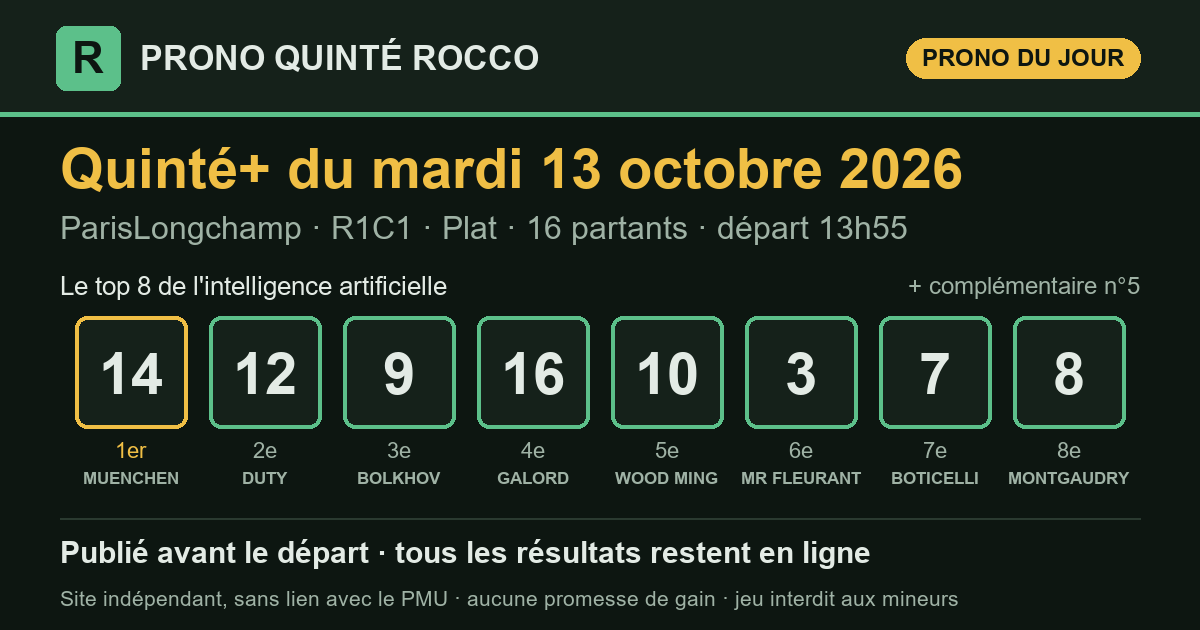
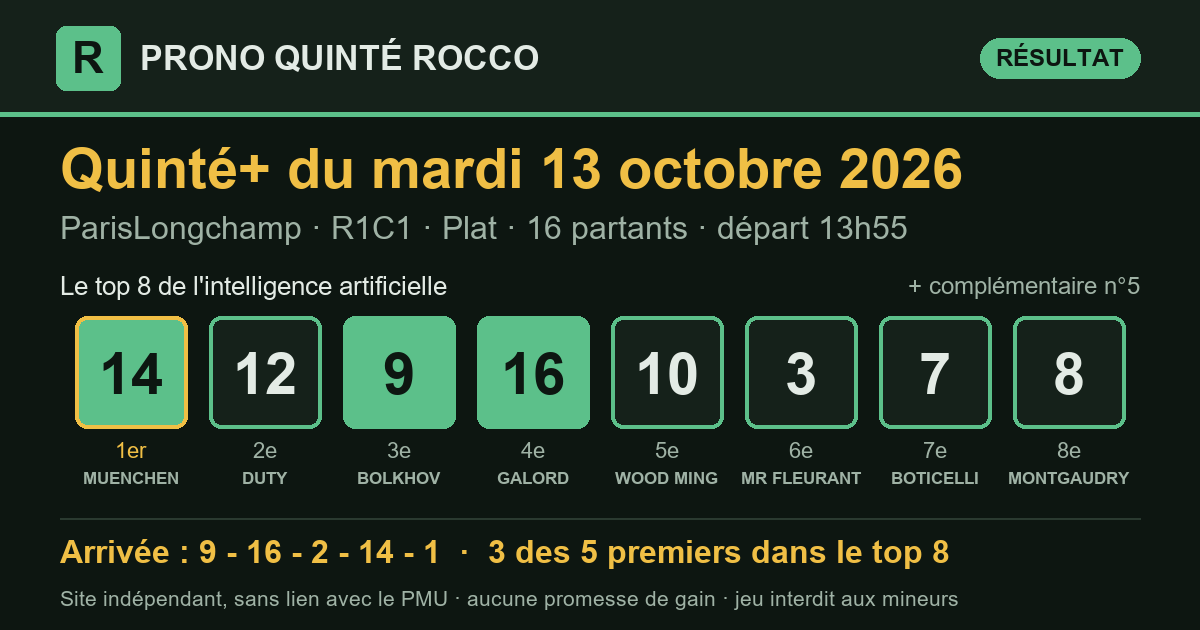
Prono Quinté+ 2026-10-13 ParisLongchamp R1C1 — publié le 13/10/2026 14:06 (heure de Paris)

diff --git a/partants.html b/partants.html
@@ -3,14 +3,14 @@
 <head>
 <meta charset="utf-8">
 <meta name="viewport" content="width=device-width, initial-scale=1, viewport-fit=cover">
-<title>Partants du Quinté+ du mardi 13 octobre 2026 — Prono Quinté Rocco</title>
+<title>Partants du Quinté+ du mercredi 14 octobre 2026 — Prono Quinté Rocco</title>
 <meta name="description" content="Les partants du prochain Quinté+ (programme officiel du PMU), avec le rang du prono IA et les liens vers les pronostics de la presse.">
 <link rel="canonical" href="https://prono-quinte-rocco.fr/partants.html">
 <link rel="stylesheet" href="style.css?v=9ac79f81">
 <meta property="og:site_name" content="Prono Quinté Rocco">
 <meta property="og:locale" content="fr_FR">
 <meta property="og:type" content="website">
-<meta property="og:title" content="Partants du Quinté+ du mardi 13 octobre 2026 — Prono Quinté Rocco">
+<meta property="og:title" content="Partants du Quinté+ du mercredi 14 octobre 2026 — Prono Quinté Rocco">
 <meta property="og:description" content="Les partants du prochain Quinté+ (programme officiel du PMU), avec le rang du prono IA et les liens vers les pronostics de la presse.">
 <meta property="og:url" content="https://prono-quinte-rocco.fr/partants.html">
 <meta name="twitter:card" content="summary">
@@ -26,100 +26,100 @@
   <p class="surtitre">Programme officiel du PMU</p>
   <h1>Les partants du prochain Quinté+</h1>
   <div class="fiche-course">
-    <p class="fiche-date">Mardi 13 octobre 2026</p>
-    <div class="fiche-rc"><span class="pastille" title="Réunion 1">R1</span><span class="pastille" title="Course 1">C1</span><span class="fiche-nom">Prix de la Galerie des Varietes</span></div>
-    <p class="meta">ParisLongchamp · Plat · 1 600 m · 16 partants</p>
+    <p class="fiche-date">Mercredi 14 octobre 2026</p>
+    <div class="fiche-rc"><span class="pastille" title="Réunion 1">R1</span><span class="pastille" title="Course 1">C1</span><span class="fiche-nom">Grand National du Trot</span></div>
+    <p class="meta">Reims · Trot_attele · 2 550 m · 16 partants</p>
     <p class="fiche-depart">Départ <b>13:55</b> <span>heure de Paris</span></p>
   </div>
   <p class="surtitre">Les pronostics ailleurs sur le web</p>
-  <div class="liens"><a class="lien-ext" href="https://www.turfoo.fr/programmes-courses/261013/reunion1-longchamp/course1-prix-de-la-galerie-des-varietes/pronostics-presse/" rel="noopener" target="_blank"><b>Les pronostics de la presse →</b><span>sur Turfoo (site extérieur)</span></a><a class="lien-ext" href="https://www.geny.com/programme/2026-10-13" rel="noopener" target="_blank"><b>Partants et pronostics →</b><span>programme du jour sur Geny (site extérieur)</span></a></div>
+  <div class="liens"><a class="lien-ext" href="https://www.turfoo.fr/programmes-courses/261014/reunion1-reims/course1-grand-national-du-trot/pronostics-presse/" rel="noopener" target="_blank"><b>Les pronostics de la presse →</b><span>sur Turfoo (site extérieur)</span></a><a class="lien-ext" href="https://www.geny.com/programme/2026-10-14" rel="noopener" target="_blank"><b>Partants et pronostics →</b><span>programme du jour sur Geny (site extérieur)</span></a></div>
   <div class="liste-boite"><table class="liste-partants">
     <thead><tr><th>N°</th><th>Cheval</th><th class="cote"><span class="long">Cote du matin</span><span class="court">Cote</span></th>
     <th class="ia"><span class="long">Prono IA</span><span class="court">IA</span></th></tr></thead>
     <tbody><tr>
   <td><span class="tapis petit">1</span></td>
-  <td><span class="cheval">FELIX AUX ORMES</span><span class="sous">H.JOURNIAC · Y.BARBEROT (S)</span></td>
-  <td class="cote num">27,0</td>
+  <td><span class="cheval">KOTKIE</span><span class="sous">P.PH. PLOQUIN · J.R. DELLIAUX</span></td>
+  <td class="cote num">—</td>
   <td class="ia">—</td>
 </tr><tr>
   <td><span class="tapis petit">2</span></td>
-  <td><span class="cheval">JUSEARTH FAL</span><span class="sous">C.LECOEUVRE · M.PITART</span></td>
-  <td class="cote num">46,0</td>
+  <td><span class="cheval">KOUREAS D&#x27;ELA</span><span class="sous">B. ROCHARD · M. SASSIER</span></td>
+  <td class="cote num">—</td>
   <td class="ia">—</td>
 </tr><tr>
   <td><span class="tapis petit">3</span></td>
-  <td><span class="cheval">MR FLEURANT</span><span class="sous">M.BARZALONA · A.WATRIGANT (S)</span></td>
-  <td class="cote num">13,0</td>
-  <td class="ia"><span class="etat place">6<sup>e</sup></span></td>
+  <td><span class="cheval">IF I TELL YOU</span><span class="sous">F. OUVRIE · CH. MIRANDEL</span></td>
+  <td class="cote num">—</td>
+  <td class="ia">—</td>
 </tr><tr>
   <td><span class="tapis petit">4</span></td>
-  <td><span class="cheval">AQUITAIN</span><span class="sous">T.BLANCHOUIN · MME S.GAVILAN</span></td>
-  <td class="cote num">31,0</td>
+  <td><span class="cheval">LORD DELO</span><span class="sous">M. VERVA · N. BAZIRE</span></td>
+  <td class="cote num">—</td>
   <td class="ia">—</td>
 </tr><tr>
   <td><span class="tapis petit">5</span></td>
-  <td><span class="cheval">REVE DE VALLARSA</span><span class="sous">D.SANTIAGO · LD.RACCO</span></td>
-  <td class="cote num">22,0</td>
-  <td class="ia"><span class="etat place">compl.</span></td>
+  <td><span class="cheval">JENTIL DIESCHOOT</span><span class="sous">E. RAFFIN · K. LEBLANC</span></td>
+  <td class="cote num">—</td>
+  <td class="ia">—</td>
 </tr><tr>
   <td><span class="tapis petit">6</span></td>
-  <td><span class="cheval">REVERSO</span><span class="sous">A.LEMAITRE · MME I.JANACKOVA KOPLIKOVA</span></td>
-  <td class="cote num">24,0</td>
+  <td><span class="cheval">KELLE BEAUTE</span><span class="sous">A. ABRIVARD · L.CL. ABRIVARD</span></td>
+  <td class="cote num">—</td>
   <td class="ia">—</td>
 </tr><tr>
   <td><span class="tapis petit">7</span></td>
-  <td><span class="cheval">BOTICELLI</span><span class="sous">C.SOUMILLON · M.RULEC (S)</span></td>
-  <td class="cote num">14,0</td>
-  <td class="ia"><span class="etat place">7<sup>e</sup></span></td>
+  <td><span class="cheval">HECTOR DE BASSIERE</span><span class="sous">A. ANDRE · P.L. DESAUNETTE</span></td>
+  <td class="cote num">—</td>
+  <td class="ia">—</td>
 </tr><tr>
   <td><span class="tapis petit">8</span></td>
-  <td><span class="cheval">MONTGAUDRY</span><span class="sous">S.PASQUIER · D.SMAGA</span></td>
-  <td class="cote num">19,0</td>
-  <td class="ia"><span class="etat place">8<sup>e</sup></span></td>
+  <td><span class="cheval">HEUREUX DE FLEUR</span><span class="sous">Y. LEBOURGEOIS · Mme S. RAIMOND</span></td>
+  <td class="cote num">—</td>
+  <td class="ia">—</td>
 </tr><tr>
   <td><span class="tapis petit">9</span></td>
-  <td><span class="cheval">BOLKHOV</span><span class="sous">PC.BOUDOT · A.BOTTI (S)</span></td>
-  <td class="cote num">10,0</td>
-  <td class="ia"><span class="etat place">3<sup>e</sup></span></td>
+  <td><span class="cheval">JACOMO BELLO</span><span class="sous">R. LAMY · TH. LEVESQUE</span></td>
+  <td class="cote num">—</td>
+  <td class="ia">—</td>
 </tr><tr>
   <td><span class="tapis petit">10</span></td>
-  <td><span class="cheval">WOOD MING</span><span class="sous">F.VALLE SKAR · MME C.BARANDE BARBE</span></td>
-  <td class="cote num">14,0</td>
-  <td class="ia"><span class="etat place">5<sup>e</sup></span></td>
+  <td><span class="cheval">KATCHI QUICK</span><span class="sous">CL. DUVALDESTIN · TH. DUVALDESTIN</span></td>
+  <td class="cote num">—</td>
+  <td class="ia">—</td>
 </tr><tr>
   <td><span class="tapis petit">11</span></td>
-  <td><span class="cheval">PUMALIN PARK</span><span class="sous">A.POUCHIN · G.MOSSE (S)</span></td>
-  <td class="cote num">20,0</td>
+  <td><span class="cheval">JANGO VICI</span><span class="sous">F. GUERINEAU · A. RIPOLL RIGO</span></td>
+  <td class="cote num">—</td>
   <td class="ia">—</td>
 </tr><tr>
   <td><span class="tapis petit">12</span></td>
-  <td><span class="cheval">DUTY</span><span class="sous">I.MENDIZABAL · M.DELZANGLES</span></td>
-  <td class="cote num">7,5</td>
-  <td class="ia"><span class="etat place">2<sup>e</sup></span></td>
+  <td><span class="cheval">INDUS VAL</span><span class="sous">P.Y. VERVA · J.M. CHAINEUX</span></td>
+  <td class="cote num">—</td>
+  <td class="ia">—</td>
 </tr><tr>
   <td><span class="tapis petit">13</span></td>
-  <td><span class="cheval">LORD OF WAR</span><span class="sous">M.GUYON · N.PERRET (S)</span></td>
-  <td class="cote num">22,0</td>
+  <td><span class="cheval">IALTO D&#x27;HERTALS</span><span class="sous">F. NIVARD · TH. DUVALDESTIN</span></td>
+  <td class="cote num">—</td>
   <td class="ia">—</td>
 </tr><tr>
   <td><span class="tapis petit">14</span></td>
-  <td><span class="cheval">MUENCHEN</span><span class="sous">C.DEMURO · C.ESCUDER</span></td>
-  <td class="cote num">5,8</td>
-  <td class="ia"><span class="etat place">1<sup>er</sup></span></td>
+  <td><span class="cheval">HORATIUS D&#x27;ELA</span><span class="sous">A. GENDROT · M. SASSIER</span></td>
+  <td class="cote num">—</td>
+  <td class="ia">—</td>
 </tr><tr>
   <td><span class="tapis petit">15</span></td>
-  <td><span class="cheval">HERMES WOOD</span><span class="sous">T.BACHELOT · C.FEY (S)</span></td>
-  <td class="cote num">20,0</td>
+  <td><span class="cheval">JUST DE L&#x27;OISON</span><span class="sous">THEO DUVALDESTIN · TH. DUVALDESTIN</span></td>
+  <td class="cote num">—</td>
   <td class="ia">—</td>
 </tr><tr>
   <td><span class="tapis petit">16</span></td>
-  <td><span class="cheval">GALORD</span><span class="sous">E.HARDOUIN · C.FEY (S)</span></td>
-  <td class="cote num">5,5</td>
-  <td class="ia"><span class="etat place">4<sup>e</sup></span></td>
+  <td><span class="cheval">JINGLE DU PONT</span><span class="sous">TH. DROMIGNY · N. BAZIRE</span></td>
+  <td class="cote num">—</td>
+  <td class="ia">—</td>
 </tr></tbody>
   </table></div>
-  <p class="meta">Le rang du prono IA est celui publié sur ce site. Sous chaque cheval : jockey · entraîneur. Partants et cotes : programme
-  officiel du PMU, lu le 13/10 à 13:57 (heure de Paris). NP = non-partant.</p>
+  <p class="meta">Le prono IA de cette course sera publié le matin de la course, avant le départ. Sous chaque cheval : driver · entraîneur. Partants et cotes : programme
+  officiel du PMU, lu le 13/10 à 14:06 (heure de Paris). NP = non-partant.</p>
 </section>
 </main>
 <footer class="pied">

diff --git a/index.html b/index.html
@@ -13,7 +13,7 @@
 <meta property="og:title" content="Pronostic Quinté+ du mardi 13 octobre 2026 — Prono Quinté Rocco">
 <meta property="og:description" content="Le pronostic du Quinté+ par intelligence artificielle, publié avant le départ, avec tous les résultats et le rendement réel.">
 <meta property="og:url" content="https://prono-quinte-rocco.fr/">
-<meta property="og:image" content="https://prono-quinte-rocco.fr/partage/2026-10-13.png?v=27f3533c">
+<meta property="og:image" content="https://prono-quinte-rocco.fr/partage/2026-10-13.png?v=05fa89e9">
 <meta property="og:image:type" content="image/png">
 <meta property="og:image:width" content="1200">
 <meta property="og:image:height" content="630">
@@ -28,15 +28,15 @@
 </header>
 <main>
 <section class="une" aria-labelledby="t-jour">
-  <p class="surtitre">Quinté+ du jour</p>
+  <p class="surtitre">Dernier Quinté+</p>
   <h1 id="t-jour">Le prono du Quinté+, résultats compris</h1>
   <p class="chapo">Chaque matin, une intelligence artificielle classe les partants du
   Quinté+. Le classement est publié avant le départ, puis comparé à l'arrivée
   officielle. Tous les résultats restent en ligne, les bons comme les mauvais.</p>
   <article class="carte-course">
-  <div class="tete"><h2>Mardi 13 octobre 2026</h2><span class="etat attente">arrivée en attente</span></div>
+  <div class="tete"><h2>Mardi 13 octobre 2026</h2><span class="etat place">3 des 5 premiers dans le top 8</span></div>
   <p class="meta">ParisLongchamp · <strong>R1C1</strong> · Plat · 16 partants · lisibilité <span class="note" aria-label="note 2 sur 5"><i class="on"></i><i class="on"></i><i class=""></i><i class=""></i><i class=""></i></span> 2/5</p>
-  <ol class="partants" aria-label="Classement du prono"><li><span class="rang">1<sup>er</sup></span><span class="tapis ">14</span><span class="nom">MUENCHEN</span></li><li><span class="rang">2<sup>e</sup></span><span class="tapis ">12</span><span class="nom">DUTY</span></li><li><span class="rang">3<sup>e</sup></span><span class="tapis ">9</span><span class="nom">BOLKHOV</span></li><li><span class="rang">4<sup>e</sup></span><span class="tapis ">16</span><span class="nom">GALORD</span></li><li><span class="rang">5<sup>e</sup></span><span class="tapis ">10</span><span class="nom">WOOD MING</span></li><li><span class="rang">6<sup>e</sup></span><span class="tapis ">3</span><span class="nom">MR FLEURANT</span></li><li><span class="rang">7<sup>e</sup></span><span class="tapis ">7</span><span class="nom">BOTICELLI</span></li><li><span class="rang">8<sup>e</sup></span><span class="tapis ">8</span><span class="nom">MONTGAUDRY</span></li><li><span class="rang">compl.</span><span class="tapis creux">5</span><span class="nom">REVE DE VALLARSA</span></li></ol>
+  <ol class="partants" aria-label="Classement du prono"><li><span class="rang">1<sup>er</sup></span><span class="tapis plein">14</span><span class="nom">MUENCHEN</span></li><li><span class="rang">2<sup>e</sup></span><span class="tapis ">12</span><span class="nom">DUTY</span></li><li><span class="rang">3<sup>e</sup></span><span class="tapis plein">9</span><span class="nom">BOLKHOV</span></li><li><span class="rang">4<sup>e</sup></span><span class="tapis plein">16</span><span class="nom">GALORD</span></li><li><span class="rang">5<sup>e</sup></span><span class="tapis ">10</span><span class="nom">WOOD MING</span></li><li><span class="rang">6<sup>e</sup></span><span class="tapis ">3</span><span class="nom">MR FLEURANT</span></li><li><span class="rang">7<sup>e</sup></span><span class="tapis ">7</span><span class="nom">BOTICELLI</span></li><li><span class="rang">8<sup>e</sup></span><span class="tapis ">8</span><span class="nom">MONTGAUDRY</span></li><li><span class="rang">compl.</span><span class="tapis creux">5</span><span class="nom">REVE DE VALLARSA</span></li></ol>
   <div class="pied-carte"><span>Analysé le 13/10 à 10:18 · en ligne le 13/10 à 10:28 · départ à 13:55 (heure de Paris)</span><span><a href="quinte/2026-10-13.html">Détail de la course</a></span></div>
 </article>
   <div class="legende"><span><span class="tapis plein petit">4</span> numéro dans les 5 premiers</span>
@@ -58,7 +58,7 @@
 </section>
 <section class="bilan" aria-labelledby="t-bilan">
   <h2 id="t-bilan">Le bilan depuis le 8 septembre 2026</h2>
-  <div class="tableau chiffres"><div class="case"><span class="gros ">74 %</span><span class="lib">des arrivants trouvés dans le top 8</span><span class="ref">un top 8 tiré au hasard : 52 %</span></div><div class="case"><span class="gros ">85 %</span><span class="lib">des gagnants présents dans le top 8</span><span class="ref"></span></div><div class="case"><span class="gros ">53 %</span><span class="lib">1er du prono placé</span><span class="ref">sur 34 Quintés</span></div><div class="case"><span class="gros perte">0,96 €</span><span class="lib">rendus pour 1 € joué placé sur le 1er</span><span class="ref">rapports officiels PMU</span></div><div class="case"><span class="gros perte">0,43 €</span><span class="lib">rendus pour 1 € joué en Quinté+ combiné top 8</span><span class="ref">56 combinaisons, rapports PMU.fr, sur 34 Quintés</span></div></div>
+  <div class="tableau chiffres"><div class="case"><span class="gros ">74 %</span><span class="lib">des arrivants trouvés dans le top 8</span><span class="ref">un top 8 tiré au hasard : 51 %</span></div><div class="case"><span class="gros ">86 %</span><span class="lib">des gagnants présents dans le top 8</span><span class="ref"></span></div><div class="case"><span class="gros ">53 %</span><span class="lib">1er du prono placé</span><span class="ref">sur 34 Quintés</span></div><div class="case"><span class="gros perte">0,96 €</span><span class="lib">rendus pour 1 € joué placé sur le 1er</span><span class="ref">rapports officiels PMU</span></div><div class="case"><span class="gros perte">0,43 €</span><span class="lib">rendus pour 1 € joué en Quinté+ combiné top 8</span><span class="ref">56 combinaisons, rapports PMU.fr, sur 34 Quintés</span></div></div>
   <p class="avertissement">Moins de 1 € rendu pour 1 € joué : suivre ce prono à la lettre fait <strong>perdre de l'argent</strong> sur cette période. Il sert à analyser une course, pas à promettre un gain.</p>
 </section>
 </main>

diff --git a/quinte/2026-10-13.html b/quinte/2026-10-13.html
@@ -13,7 +13,7 @@
 <meta property="og:title" content="Pronostic Quinté+ du mardi 13 octobre 2026 à ParisLongchamp — Prono Quinté Rocco">
 <meta property="og:description" content="Prono Quinté+ du mardi 13 octobre 2026 (ParisLongchamp) : top 8, arrivée officielle et rapports PMU.fr.">
 <meta property="og:url" content="https://prono-quinte-rocco.fr/quinte/2026-10-13.html">
-<meta property="og:image" content="https://prono-quinte-rocco.fr/partage/2026-10-13.png?v=27f3533c">
+<meta property="og:image" content="https://prono-quinte-rocco.fr/partage/2026-10-13.png?v=05fa89e9">
 <meta property="og:image:type" content="image/png">
 <meta property="og:image:width" content="1200">
 <meta property="og:image:height" content="630">
@@ -32,11 +32,19 @@
   <h1>Pronostic Quinté+ du mardi 13 octobre 2026</h1>
   <p class="chapo">ParisLongchamp · R1C1 · Plat · 16 partants</p>
   <article class="carte-course">
-  <div class="tete"><h2>Le prono : top 8 et complémentaire</h2><span class="etat attente">arrivée en attente</span></div>
+  <div class="tete"><h2>Le prono : top 8 et complémentaire</h2><span class="etat place">3 des 5 premiers dans le top 8</span></div>
   <p class="meta">ParisLongchamp · <strong>R1C1</strong> · Plat · 16 partants · lisibilité <span class="note" aria-label="note 2 sur 5"><i class="on"></i><i class="on"></i><i class=""></i><i class=""></i><i class=""></i></span> 2/5</p>
-  <ol class="partants" aria-label="Classement du prono"><li><span class="rang">1<sup>er</sup></span><span class="tapis ">14</span><span class="nom">MUENCHEN</span></li><li><span class="rang">2<sup>e</sup></span><span class="tapis ">12</span><span class="nom">DUTY</span></li><li><span class="rang">3<sup>e</sup></span><span class="tapis ">9</span><span class="nom">BOLKHOV</span></li><li><span class="rang">4<sup>e</sup></span><span class="tapis ">16</span><span class="nom">GALORD</span></li><li><span class="rang">5<sup>e</sup></span><span class="tapis ">10</span><span class="nom">WOOD MING</span></li><li><span class="rang">6<sup>e</sup></span><span class="tapis ">3</span><span class="nom">MR FLEURANT</span></li><li><span class="rang">7<sup>e</sup></span><span class="tapis ">7</span><span class="nom">BOTICELLI</span></li><li><span class="rang">8<sup>e</sup></span><span class="tapis ">8</span><span class="nom">MONTGAUDRY</span></li><li><span class="rang">compl.</span><span class="tapis creux">5</span><span class="nom">REVE DE VALLARSA</span></li></ol>
+  <ol class="partants" aria-label="Classement du prono"><li><span class="rang">1<sup>er</sup></span><span class="tapis plein">14</span><span class="nom">MUENCHEN</span></li><li><span class="rang">2<sup>e</sup></span><span class="tapis ">12</span><span class="nom">DUTY</span></li><li><span class="rang">3<sup>e</sup></span><span class="tapis plein">9</span><span class="nom">BOLKHOV</span></li><li><span class="rang">4<sup>e</sup></span><span class="tapis plein">16</span><span class="nom">GALORD</span></li><li><span class="rang">5<sup>e</sup></span><span class="tapis ">10</span><span class="nom">WOOD MING</span></li><li><span class="rang">6<sup>e</sup></span><span class="tapis ">3</span><span class="nom">MR FLEURANT</span></li><li><span class="rang">7<sup>e</sup></span><span class="tapis ">7</span><span class="nom">BOTICELLI</span></li><li><span class="rang">8<sup>e</sup></span><span class="tapis ">8</span><span class="nom">MONTGAUDRY</span></li><li><span class="rang">compl.</span><span class="tapis creux">5</span><span class="nom">REVE DE VALLARSA</span></li></ol>
   <div class="pied-carte"><span>Analysé le 13/10 à 10:18 · en ligne le 13/10 à 10:28 · départ à 13:55 (heure de Paris)</span><span></span></div>
 </article>
+<section class="carte-course" aria-labelledby="t-arr">
+  <div class="tete"><h2 id="t-arr">Arrivée officielle</h2></div>
+  <div class="rangee"><span class="tapis plein" title="1er">9</span><span class="tapis plein" title="2e">16</span><span class="tapis creux" title="3e">2</span><span class="tapis plein" title="4e">14</span><span class="tapis creux" title="5e">1</span></div>
+  <div class="deux">
+    <div><h3>Ce qu'aurait rendu le prono</h3><dl class="kv"><dt>1 € placé sur le 1er (n°14)</dt><dd>rapport manquant</dd><dt>1 € gagnant sur le 1er</dt><dd>rapport manquant</dd></dl></div>
+    <div><h3>Rapports officiels</h3><dl class="kv"><dt>rapports indisponibles</dt><dd></dd></dl></div>
+  </div>
+</section>
 </section>
 </main>
 <footer class="pied">

diff --git a/resultats.html b/resultats.html
@@ -36,8 +36,8 @@
     <tbody><tr>
   <td class="c-date"><a href="quinte/2026-10-13.html">13/10</a></td>
   <td class="c-course">ParisLongchamp<br><span class="meta">R1C1 · Plat</span></td>
-  <td data-label="Top 8 du prono"><div class="rangee"><span class="tapis petit">14</span><span class="tapis petit">12</span><span class="tapis petit">9</span><span class="tapis petit">16</span><span class="tapis petit">10</span><span class="tapis petit">3</span><span class="tapis petit">7</span><span class="tapis petit">8</span></div></td><td data-label="Arrivée"><span class="etat attente">en attente</span></td>
-  <td class="num" data-label="Trouvés">—</td><td data-label="1er du prono"><span class="etat attente">—</span></td><td class="mont" data-label="Quinté+ top 8 (mise 112 €)">—</td>
+  <td data-label="Top 8 du prono"><div class="rangee"><span class="tapis plein petit">14</span><span class="tapis petit">12</span><span class="tapis plein petit">9</span><span class="tapis plein petit">16</span><span class="tapis petit">10</span><span class="tapis petit">3</span><span class="tapis petit">7</span><span class="tapis petit">8</span></div></td><td data-label="Arrivée"><div class="rangee"><span class="tapis plein petit" title="1er">9</span><span class="tapis plein petit" title="2e">16</span><span class="tapis creux petit" title="3e">2</span><span class="tapis plein petit" title="4e">14</span><span class="tapis creux petit" title="5e">1</span></div></td>
+  <td class="num" data-label="Trouvés">3/5</td><td data-label="1er du prono"><span class="etat non">non placé</span></td><td class="mont" data-label="Quinté+ top 8 (mise 112 €)">—</td>
 </tr><tr>
   <td class="c-date"><a href="quinte/2026-10-12.html">12/10</a></td>
   <td class="c-course">Marseille-Borely<br><span class="meta">R1C4 · Plat</span></td>
@@ -213,7 +213,7 @@
 </section>
 <section class="bilan" aria-labelledby="t-bilan">
   <h2 id="t-bilan">Le bilan depuis le 8 septembre 2026</h2>
-  <div class="tableau chiffres"><div class="case"><span class="gros ">74 %</span><span class="lib">des arrivants trouvés dans le top 8</span><span class="ref">un top 8 tiré au hasard : 52 %</span></div><div class="case"><span class="gros ">85 %</span><span class="lib">des gagnants présents dans le top 8</span><span class="ref"></span></div><div class="case"><span class="gros ">53 %</span><span class="lib">1er du prono placé</span><span class="ref">sur 34 Quintés</span></div><div class="case"><span class="gros perte">0,96 €</span><span class="lib">rendus pour 1 € joué placé sur le 1er</span><span class="ref">rapports officiels PMU</span></div><div class="case"><span class="gros perte">0,43 €</span><span class="lib">rendus pour 1 € joué en Quinté+ combiné top 8</span><span class="ref">56 combinaisons, rapports PMU.fr, sur 34 Quintés</span></div></div>
+  <div class="tableau chiffres"><div class="case"><span class="gros ">74 %</span><span class="lib">des arrivants trouvés dans le top 8</span><span class="ref">un top 8 tiré au hasard : 51 %</span></div><div class="case"><span class="gros ">86 %</span><span class="lib">des gagnants présents dans le top 8</span><span class="ref"></span></div><div class="case"><span class="gros ">53 %</span><span class="lib">1er du prono placé</span><span class="ref">sur 34 Quintés</span></div><div class="case"><span class="gros perte">0,96 €</span><span class="lib">rendus pour 1 € joué placé sur le 1er</span><span class="ref">rapports officiels PMU</span></div><div class="case"><span class="gros perte">0,43 €</span><span class="lib">rendus pour 1 € joué en Quinté+ combiné top 8</span><span class="ref">56 combinaisons, rapports PMU.fr, sur 34 Quintés</span></div></div>
   <p class="avertissement">Moins de 1 € rendu pour 1 € joué : suivre ce prono à la lettre fait <strong>perdre de l'argent</strong> sur cette période. Il sert à analyser une course, pas à promettre un gain.</p>
 </section>
 </main>
